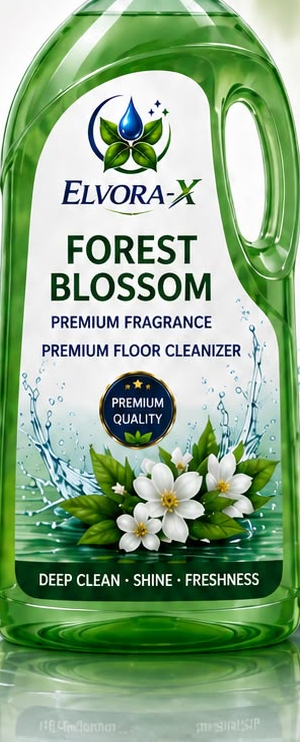
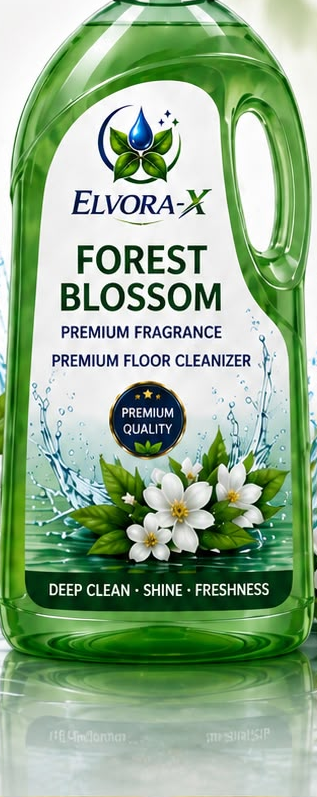
auto-commit for 58ae47a8-ce1b-4fae-8899-0505ef8cbb0c

diff --git a/frontend/src/components/marketing/Products.jsx b/frontend/src/components/marketing/Products.jsx
@@ -31,7 +31,7 @@ function ProductCard({ p, index, onOpen }) {
       className="group relative cursor-pointer rounded-t-[2.5rem] rounded-br-[2.5rem] border border-gold/30 bg-white overflow-hidden shadow-[0_20px_50px_rgba(10,17,40,0.06)] transition-shadow duration-500 hover:shadow-[0_30px_70px_rgba(10,17,40,0.14)]"
     >
       <div
-        className={`relative h-[360px] flex items-end justify-center overflow-hidden ${
+        className={`relative h-[380px] flex items-center justify-center overflow-hidden ${
           photo ? "bg-navy" : "bg-[radial-gradient(circle_at_50%_20%,rgba(212,175,55,0.12),transparent_60%)]"
         }`}
       >
@@ -54,7 +54,7 @@ function ProductCard({ p, index, onOpen }) {
           <img
             src={imgFor(p)}
             alt={p.name}
-            className="h-[92%] object-contain transition-transform duration-700 ease-out group-hover:scale-[1.06] product-shadow"
+            className="max-h-full max-w-full w-auto object-contain py-5 transition-transform duration-700 ease-out group-hover:scale-[1.05] product-shadow"
           />
         )}
       </div>
